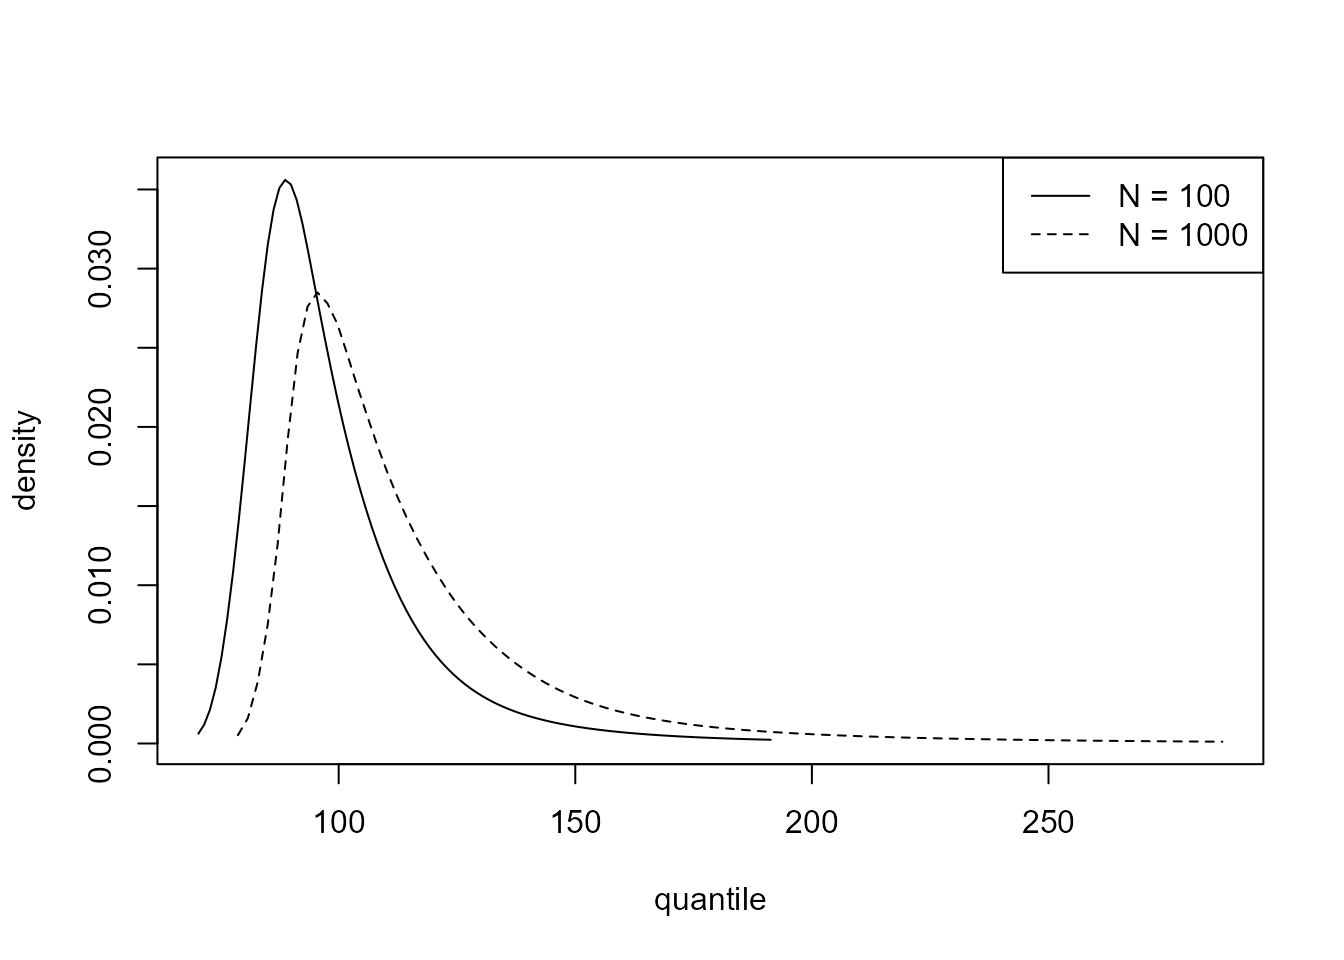
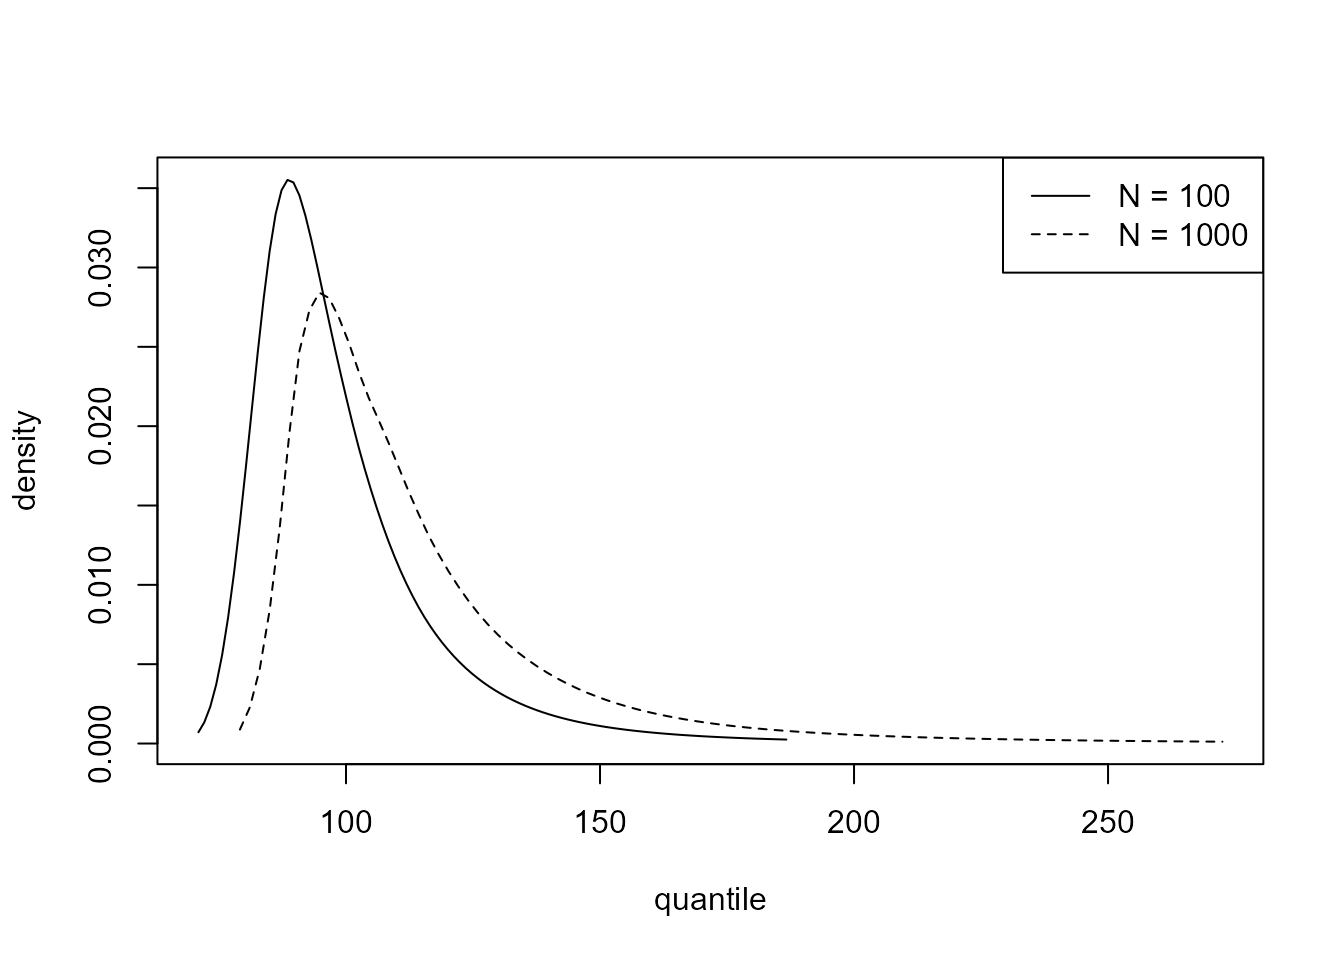
pkgdown [ci skip]

diff --git a/docs/reference/predict.blite.html b/docs/reference/predict.blite.html
@@ -269,10 +269,10 @@ arguments are used.</p></dd>
 <span class="r-in"><span><span class="co"># Interval estimation</span></span></span>
 <span class="r-in"><span><span class="fu"><a href="https://rdrr.io/r/stats/predict.html" class="external-link">predict</a></span><span class="op">(</span><span class="va">cpost</span><span class="op">)</span><span class="op">$</span><span class="va">long</span></span></span>
 <span class="r-out co"><span class="r-pr">#&gt;</span>         lower    upper n_years level</span>
-<span class="r-out co"><span class="r-pr">#&gt;</span> [1,] 76.67904 151.5328     100    95</span>
+<span class="r-out co"><span class="r-pr">#&gt;</span> [1,] 77.57376 160.4498     100    95</span>
 <span class="r-in"><span><span class="fu"><a href="https://rdrr.io/r/stats/predict.html" class="external-link">predict</a></span><span class="op">(</span><span class="va">cpost</span>, hpd <span class="op">=</span> <span class="cn">TRUE</span><span class="op">)</span><span class="op">$</span><span class="va">short</span></span></span>
-<span class="r-out co"><span class="r-pr">#&gt;</span>         lower   upper n_years level</span>
-<span class="r-out co"><span class="r-pr">#&gt;</span> [1,] 72.25162 136.881     100    95</span>
+<span class="r-out co"><span class="r-pr">#&gt;</span>         lower    upper n_years level</span>
+<span class="r-out co"><span class="r-pr">#&gt;</span> [1,] 73.11504 143.4878     100    95</span>
 <span class="r-in"><span></span></span>
 <span class="r-in"><span><span class="co"># Density function</span></span></span>
 <span class="r-in"><span><span class="fu"><a href="https://rdrr.io/r/graphics/plot.default.html" class="external-link">plot</a></span><span class="op">(</span><span class="fu"><a href="https://rdrr.io/r/stats/predict.html" class="external-link">predict</a></span><span class="op">(</span><span class="va">cpost</span>, type <span class="op">=</span> <span class="st">"d"</span>, n_years <span class="op">=</span> <span class="fu"><a href="https://rdrr.io/r/base/c.html" class="external-link">c</a></span><span class="op">(</span><span class="fl">100</span>, <span class="fl">1000</span><span class="op">)</span><span class="op">)</span><span class="op">)</span></span></span>
@@ -285,11 +285,11 @@ arguments are used.</p></dd>
 <span class="r-in"><span><span class="co"># Quantiles</span></span></span>
 <span class="r-in"><span><span class="fu"><a href="https://rdrr.io/r/stats/predict.html" class="external-link">predict</a></span><span class="op">(</span><span class="va">cpost</span>, type <span class="op">=</span> <span class="st">"q"</span>, n_years <span class="op">=</span> <span class="fu"><a href="https://rdrr.io/r/base/c.html" class="external-link">c</a></span><span class="op">(</span><span class="fl">100</span>, <span class="fl">1000</span><span class="op">)</span><span class="op">)</span><span class="op">$</span><span class="va">y</span></span></span>
 <span class="r-out co"><span class="r-pr">#&gt;</span>           [,1]      [,2]</span>
-<span class="r-out co"><span class="r-pr">#&gt;</span> [1,]  76.67904  85.06229</span>
-<span class="r-out co"><span class="r-pr">#&gt;</span> [2,]  86.61357  95.73405</span>
-<span class="r-out co"><span class="r-pr">#&gt;</span> [3,]  93.81434 105.13591</span>
-<span class="r-out co"><span class="r-pr">#&gt;</span> [4,] 104.71730 121.37313</span>
-<span class="r-out co"><span class="r-pr">#&gt;</span> [5,] 151.53277 204.35832</span>
+<span class="r-out co"><span class="r-pr">#&gt;</span> [1,]  77.57376  85.69778</span>
+<span class="r-out co"><span class="r-pr">#&gt;</span> [2,]  87.54737  96.48843</span>
+<span class="r-out co"><span class="r-pr">#&gt;</span> [3,]  94.94781 106.37889</span>
+<span class="r-out co"><span class="r-pr">#&gt;</span> [4,] 106.66870 124.19535</span>
+<span class="r-out co"><span class="r-pr">#&gt;</span> [5,] 160.44982 220.12870</span>
 <span class="r-in"><span></span></span>
 <span class="r-in"><span><span class="co"># Random generation</span></span></span>
 <span class="r-in"><span><span class="fu"><a href="https://rdrr.io/r/graphics/plot.default.html" class="external-link">plot</a></span><span class="op">(</span><span class="fu"><a href="https://rdrr.io/r/stats/predict.html" class="external-link">predict</a></span><span class="op">(</span><span class="va">cpost</span>, type <span class="op">=</span> <span class="st">"r"</span><span class="op">)</span><span class="op">)</span></span></span>

diff --git a/docs/articles/lite-2-bayesian.html b/docs/articles/lite-2-bayesian.html
@@ -135,10 +135,10 @@ numerical and graphical marginal summaries of the posterior samples.</p>
 <span><span class="co">#&gt; blite(data = cdata, u = 45, k = 3, ny = 31 * 24, n = 10000)</span></span>
 <span><span class="co">#&gt; </span></span>
 <span><span class="co">#&gt;          Posterior mean Posterior SD</span></span>
-<span><span class="co">#&gt; p[u]            0.02836     0.006049</span></span>
-<span><span class="co">#&gt; sigma[u]        9.95700     2.385000</span></span>
-<span><span class="co">#&gt; xi             -0.07242     0.095380</span></span>
-<span><span class="co">#&gt; theta           0.24190     0.023730</span></span>
+<span><span class="co">#&gt; p[u]            0.02846     0.006073</span></span>
+<span><span class="co">#&gt; sigma[u]        9.98500     2.375000</span></span>
+<span><span class="co">#&gt; xi             -0.07388     0.094590</span></span>
+<span><span class="co">#&gt; theta           0.24250     0.022860</span></span>
 <span><span class="fu"><a href="https://rdrr.io/r/graphics/plot.default.html" class="external-link">plot</a></span><span class="op">(</span><span class="va">cpost</span><span class="op">)</span></span></code></pre></div>
 <p><img src="lite-2-bayesian_files/figure-html/vertical-1.png" width="672"></p>
 </div>
@@ -165,7 +165,7 @@ predictive densities of <span class="math inline">\(M_{100}\)</span> and
 <code class="sourceCode R"><span><span class="co"># Interval estimation</span></span>
 <span><span class="fu"><a href="https://rdrr.io/r/stats/predict.html" class="external-link">predict</a></span><span class="op">(</span><span class="va">cpost</span>, hpd <span class="op">=</span> <span class="cn">TRUE</span><span class="op">)</span><span class="op">$</span><span class="va">short</span></span>
 <span><span class="co">#&gt;         lower    upper n_years level</span></span>
-<span><span class="co">#&gt; [1,] 72.42857 139.4298     100    95</span></span></code></pre></div>
+<span><span class="co">#&gt; [1,] 72.88755 138.9543     100    95</span></span></code></pre></div>
 <div class="sourceCode" id="cb4"><pre class="downlit sourceCode r">
 <code class="sourceCode R"><span><span class="co"># Density function</span></span>
 <span><span class="fu"><a href="https://rdrr.io/r/graphics/plot.default.html" class="external-link">plot</a></span><span class="op">(</span><span class="fu"><a href="https://rdrr.io/r/stats/predict.html" class="external-link">predict</a></span><span class="op">(</span><span class="va">cpost</span>, type <span class="op">=</span> <span class="st">"d"</span>, n_years <span class="op">=</span> <span class="fu"><a href="https://rdrr.io/r/base/c.html" class="external-link">c</a></span><span class="op">(</span><span class="fl">100</span>, <span class="fl">1000</span><span class="op">)</span><span class="op">)</span><span class="op">)</span></span></code></pre></div>
@@ -185,7 +185,7 @@ Ratio-of-Uniforms Sampling for Bayesian Extreme Value Analysis</em>. <a href="ht
 Ribatet, Mathieu, Daniel Cooley, and Anthony C. Davison. 2012.
 <span>“Bayesian Inference from Composite Likelihoods, with an
 Application to Spatial Extremes.”</span> <em>Statistica Sinica</em> 22
-(2): 813–845. <a href="http://www.jstor.org/stable/24310036" class="external-link">http://www.jstor.org/stable/24310036</a>.
+(2): 813–845. <a href="https://www.jstor.org/stable/24310036" class="external-link">https://www.jstor.org/stable/24310036</a>.
 </div>
 </div>
 </div>

diff --git a/docs/reference/blite.html b/docs/reference/blite.html
@@ -288,10 +288,10 @@ may make a difference if the number of clusters is not large.</p></dd>
 <span class="r-out co"><span class="r-pr">#&gt;</span> blite(data = cdata, u = 45, k = 3)</span>
 <span class="r-out co"><span class="r-pr">#&gt;</span> </span>
 <span class="r-out co"><span class="r-pr">#&gt;</span>          Posterior mean Posterior SD</span>
-<span class="r-out co"><span class="r-pr">#&gt;</span> p[u]            0.02823     0.005815</span>
-<span class="r-out co"><span class="r-pr">#&gt;</span> sigma[u]        9.88300     2.395000</span>
-<span class="r-out co"><span class="r-pr">#&gt;</span> xi             -0.07096     0.096700</span>
-<span class="r-out co"><span class="r-pr">#&gt;</span> theta           0.24250     0.023830</span>
+<span class="r-out co"><span class="r-pr">#&gt;</span> p[u]            0.02821     0.005976</span>
+<span class="r-out co"><span class="r-pr">#&gt;</span> sigma[u]       10.00000     2.377000</span>
+<span class="r-out co"><span class="r-pr">#&gt;</span> xi             -0.07852     0.092970</span>
+<span class="r-out co"><span class="r-pr">#&gt;</span> theta           0.24250     0.023950</span>
 <span class="r-in"><span></span></span>
 <span class="r-in"><span><span class="co">## Plots of posterior samples</span></span></span>
 <span class="r-in"><span><span class="fu"><a href="https://rdrr.io/r/graphics/plot.default.html" class="external-link">plot</a></span><span class="op">(</span><span class="va">cpost</span><span class="op">)</span></span></span>
@@ -299,11 +299,11 @@ may make a difference if the number of clusters is not large.</p></dd>
 <span class="r-in"><span></span></span>
 <span class="r-in"><span><span class="co">## Credible intervals</span></span></span>
 <span class="r-in"><span><span class="fu"><a href="https://rdrr.io/r/stats/confint.html" class="external-link">confint</a></span><span class="op">(</span><span class="va">cpost</span><span class="op">)</span></span></span>
-<span class="r-out co"><span class="r-pr">#&gt;</span>              2.5%       97.5%</span>
-<span class="r-out co"><span class="r-pr">#&gt;</span> pu      0.0178943  0.04067925</span>
-<span class="r-out co"><span class="r-pr">#&gt;</span> sigmau  6.2373921 15.60308019</span>
-<span class="r-out co"><span class="r-pr">#&gt;</span> xi     -0.2462650  0.12553485</span>
-<span class="r-out co"><span class="r-pr">#&gt;</span> theta   0.2007628  0.29104840</span>
+<span class="r-out co"><span class="r-pr">#&gt;</span>               2.5%       97.5%</span>
+<span class="r-out co"><span class="r-pr">#&gt;</span> pu      0.01739726  0.04090561</span>
+<span class="r-out co"><span class="r-pr">#&gt;</span> sigmau  6.25968834 15.77793954</span>
+<span class="r-out co"><span class="r-pr">#&gt;</span> xi     -0.25164821  0.13422607</span>
+<span class="r-out co"><span class="r-pr">#&gt;</span> theta   0.19871879  0.28950612</span>
 </code></pre></div>
     </div>
   </div>
